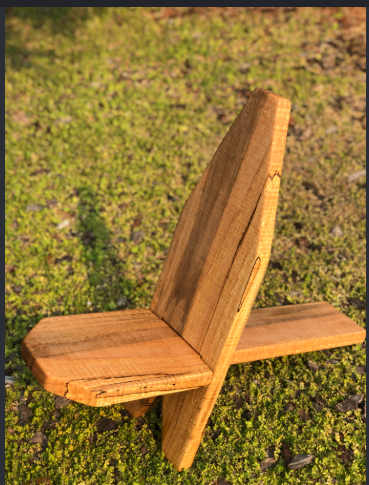
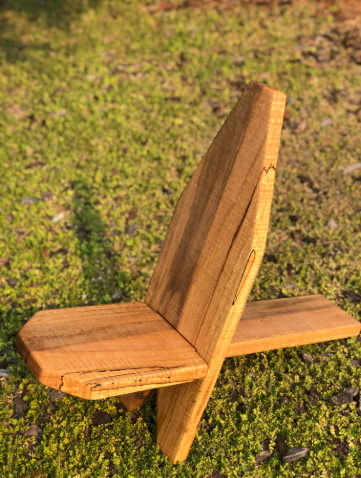
Warmer design: green hero with featured photo, cream gallery, drawn pieces until photos arrive

diff --git a/index.html b/index.html
@@ -5,141 +5,166 @@
 <meta name="viewport" content="width=device-width, initial-scale=1">
 <title>LAA · Handmade Woodwork</title>
 <meta name="description" content="LAA: a gallery of handmade wood pieces.">
-<meta name="theme-color" content="#F4F2ED">
+<meta name="theme-color" content="#1F2A23">
 <link rel="icon" href="logo.svg" type="image/svg+xml">
 <link rel="preconnect" href="https://api.fontshare.com">
-<link rel="stylesheet" href="https://api.fontshare.com/v2/css?f[]=general-sans@400,500,600&display=swap">
+<link rel="stylesheet" href="https://api.fontshare.com/v2/css?f[]=clash-display@500,600&f[]=satoshi@400,500,700&display=swap">
 <style>
-  /* minimal catalogue: paper ground, ink type, one green accent; dark mode follows the phone */
-  :root { --paper: #F4F2ED; --tile: #E9E6DF; --ink: #161A17; --muted: #7A7F79; --line: #D9D5CC; --accent: #2E3B32;
-    --font: "General Sans", "Segoe UI", system-ui, sans-serif; color-scheme: light }
-  @media (prefers-color-scheme: dark) { :root { --paper: #121513; --tile: #1B201C; --ink: #ECE8E0; --muted: #8C938B; --line: #2A302B; --accent: #A9C3A6; color-scheme: dark } }
+  /* one warm look on purpose: forest-green bands, cream paper, oiled-oak accent */
+  :root { --forest: #1F2A23; --green: #2E3B32; --sage: #A9C3A6; --cream: #F2EEE6; --paper: #F6F2EA; --tile: #EDE6D8;
+    --ink: #1D2620; --muted: #6B736A; --oak: #B97A3E; --line: #E0D8C8;
+    --display: "Clash Display", "Segoe UI", system-ui, sans-serif; --body: "Satoshi", "Segoe UI", system-ui, sans-serif; color-scheme: light }
   * { box-sizing: border-box }
-  body { margin: 0; background: var(--paper); color: var(--ink); font: 15px/1.5 var(--font); -webkit-font-smoothing: antialiased }
-  .wrap { max-width: 1240px; margin: 0 auto; padding-left: max(20px, env(safe-area-inset-left)); padding-right: max(20px, env(safe-area-inset-right)) }
-  .num { font-variant-numeric: tabular-nums; color: var(--muted) }
+  body { margin: 0; background: var(--paper); color: var(--ink); font: 16px/1.6 var(--body); -webkit-font-smoothing: antialiased }
+  .wrap { max-width: 1180px; margin: 0 auto; padding-left: max(20px, env(safe-area-inset-left)); padding-right: max(20px, env(safe-area-inset-right)) }
 
-  /* top bar */
-  nav { position: sticky; top: 0; z-index: 5; background: color-mix(in srgb, var(--paper) 86%, transparent); backdrop-filter: blur(10px) }
-  nav .wrap { display: flex; justify-content: space-between; align-items: center; height: 60px; border-bottom: 1px solid var(--line) }
-  .brand { display: flex; align-items: center; gap: 10px; font-weight: 600; letter-spacing: .08em; text-decoration: none; color: inherit }
-  .brand img { width: 30px; height: auto; aspect-ratio: 100 / 75.83 }
-  nav .count { font-size: 13px }
+  /* hero: green band with a soft glow; the featured photo hangs over its lower edge */
+  .hero { background: radial-gradient(60% 90% at 85% 0%, rgb(169 195 166 / .22), transparent 70%), linear-gradient(160deg, #26342B, var(--forest) 70%); color: var(--cream) }
+  .hero .wrap { display: grid; grid-template-columns: minmax(0, 1fr) minmax(0, 1fr); gap: clamp(28px, 5vw, 64px); align-items: end; padding-top: clamp(40px, 7vw, 84px) }
+  .brand { padding-bottom: clamp(40px, 7vw, 96px) }
+  .brand img { width: clamp(84px, 11vw, 132px); height: auto; aspect-ratio: 100 / 75.83; filter: drop-shadow(0 12px 24px rgb(0 0 0 / .35)) }
+  .brand h1 { font: 600 clamp(60px, 10vw, 120px)/1 var(--display); letter-spacing: .03em; margin: 18px 0 0 }
+  .brand .rule { width: 64px; height: 3px; border-radius: 3px; background: var(--oak); margin-top: 22px }
+  .featured { margin-bottom: clamp(-120px, -9vw, -60px); position: relative; z-index: 2 }
+  @media (max-width: 760px) {
+    .hero .wrap { grid-template-columns: 1fr; gap: 6px }
+    .brand { padding-bottom: 8px; display: flex; align-items: center; gap: 16px; flex-wrap: wrap }
+    .brand h1 { margin: 0 } .brand .rule { display: none }
+    .featured { margin-bottom: -56px }
+  }
 
-  /* intro: the name, large and quiet */
-  .intro { padding-block: clamp(48px, 10vw, 120px) clamp(28px, 5vw, 56px) }
-  .intro h1 { margin: 0; font-weight: 500; font-size: clamp(56px, 13vw, 168px); line-height: .9; letter-spacing: .01em }
-  .intro .meta { display: flex; justify-content: space-between; gap: 16px; margin-top: 22px; padding-top: 14px; border-top: 1px solid var(--line); font-size: 13px; color: var(--muted) }
+  /* cards: every one sits in a fixed-shape frame, tilts gently toward the pointer */
+  .card { all: unset; box-sizing: border-box; display: block; width: 100%; aspect-ratio: 4 / 5; border-radius: 20px; overflow: hidden; position: relative; cursor: zoom-in; background: var(--tile);
+    box-shadow: 0 1px 0 rgb(255 255 255 / .6) inset, 0 24px 48px -26px rgb(31 42 35 / .55);
+    transform: perspective(900px) rotateX(var(--rx, 0deg)) rotateY(var(--ry, 0deg)); transition: transform .45s cubic-bezier(.2,.8,.2,1), box-shadow .45s }
+  .card:hover { box-shadow: 0 1px 0 rgb(255 255 255 / .6) inset, 0 34px 60px -26px rgb(31 42 35 / .65) }
+  .card:focus-visible { outline: 2px solid var(--oak); outline-offset: 4px }
+  .card img { width: 100%; height: 100%; object-fit: cover; display: block; transition: transform .8s cubic-bezier(.2,.8,.2,1) }
+  .card:hover img { transform: scale(1.04) }
+  .chip { position: absolute; left: 12px; top: 12px; padding: 5px 10px; border-radius: 99px; font-size: 12px; font-weight: 500; background: rgb(246 242 234 / .9); color: var(--muted); backdrop-filter: blur(4px) }
+  .featured .card { box-shadow: 0 40px 80px -30px rgb(0 0 0 / .6) }
 
-  /* the work: a numbered index of pieces */
-  .grid { display: grid; grid-template-columns: repeat(3, minmax(0, 1fr)); gap: clamp(18px, 3vw, 36px) clamp(14px, 2vw, 24px); padding-bottom: 96px }
+  /* the work */
+  .work { padding-top: clamp(100px, 12vw, 160px); padding-bottom: 80px }
+  @media (max-width: 760px) { .work { padding-top: 92px } }
+  .work-head { display: flex; justify-content: space-between; align-items: baseline; gap: 16px; margin-bottom: 26px }
+  .work-head h2 { font: 600 clamp(30px, 4vw, 42px)/1 var(--display); letter-spacing: .01em; margin: 0 }
+  .work-head span { color: var(--muted); font-size: 14px }
+  .grid { display: grid; grid-template-columns: repeat(3, minmax(0, 1fr)); gap: 34px 26px }
   @media (max-width: 900px) { .grid { grid-template-columns: repeat(2, minmax(0, 1fr)) } }
-  @media (max-width: 540px) { .grid { grid-template-columns: 1fr } }
-  .piece { margin: 0; display: grid; gap: 10px }
-  .piece.lead { grid-column: span 2; grid-row: span 2 }
-  @media (max-width: 540px) { .piece.lead { grid-column: auto; grid-row: auto } }
-  .shot { all: unset; box-sizing: border-box; display: block; width: 100%; aspect-ratio: 4 / 5; background: var(--tile); overflow: hidden; border-radius: 4px; cursor: zoom-in; position: relative }
-  .piece.lead .shot { aspect-ratio: auto; height: 100% ; min-height: 320px }
-  @media (max-width: 540px) { .piece.lead .shot { aspect-ratio: 4 / 5; height: auto } }
-  .shot:focus-visible { outline: 2px solid var(--accent); outline-offset: 3px }
-  .shot img { width: 100%; height: 100%; object-fit: cover; display: block; transition: transform .9s cubic-bezier(.2,.7,.2,1), opacity .6s }
-  .shot:hover img { transform: scale(1.03) }
-  .shot.soon { cursor: default; display: grid; place-items: center }
-  .shot.soon img { width: 44px; height: auto; object-fit: contain; opacity: .18; filter: grayscale(1) }
-  @media (prefers-color-scheme: dark) { .shot.soon img { filter: grayscale(1) invert(1) } }
-  .cap { display: flex; justify-content: space-between; align-items: baseline; gap: 12px; font-size: 14px }
-  .cap span:first-child { display: flex; gap: 12px }
-  .cap .tagline { color: var(--muted); font-size: 13px }
+  @media (max-width: 520px) { .grid { grid-template-columns: 1fr } }
+  .piece { margin: 0 }
+  .grid .piece:nth-child(3n + 2) { margin-top: 40px } /* a gentle stagger, like pieces set out on a bench */
+  @media (max-width: 900px) { .grid .piece:nth-child(3n + 2) { margin-top: 0 } .grid .piece:nth-child(2n) { margin-top: 36px } }
+  @media (max-width: 520px) { .grid .piece:nth-child(2n) { margin-top: 0 } }
+  .cap { display: flex; gap: 12px; align-items: baseline; margin-top: 14px }
+  .cap .n { font: 500 13px var(--body); color: var(--oak); font-variant-numeric: tabular-nums }
+  .cap .name { font: 600 19px/1.2 var(--display); letter-spacing: .01em }
 
-  footer .wrap { display: flex; justify-content: space-between; gap: 16px; flex-wrap: wrap; padding-block: 22px 36px; border-top: 1px solid var(--line); font-size: 13px; color: var(--muted) }
+  footer { background: var(--forest); color: var(--cream) }
+  footer .wrap { display: flex; justify-content: space-between; align-items: center; gap: 12px; flex-wrap: wrap; padding-block: 26px 34px; font-size: 14px }
+  footer img { width: 34px; height: auto; aspect-ratio: 100 / 75.83; vertical-align: middle; margin-right: 12px }
+  footer .dim { color: var(--sage) }
 
   /* viewer */
-  dialog { border: 0; padding: 0; background: transparent; max-width: min(94vw, 1100px); overflow: visible; color: #ECE8E0 }
-  dialog::backdrop { background: rgb(12 14 13 / .9) }
-  dialog img { display: block; max-width: 100%; max-height: 84svh; border-radius: 4px }
-  dialog p { margin: 12px 2px 0; display: flex; justify-content: space-between; font-size: 14px }
-  .dlg-btn { position: absolute; top: 10px; width: 40px; height: 40px; border-radius: 50%; border: 0; background: rgb(18 21 19 / .7); color: #ECE8E0; font: 18px var(--font); cursor: pointer }
-  .dlg-btn:focus-visible { outline: 2px solid #A9C3A6 }
+  dialog { border: 0; padding: 0; background: transparent; max-width: min(94vw, 1000px); overflow: visible; color: var(--cream) }
+  dialog::backdrop { background: rgb(20 28 23 / .86); backdrop-filter: blur(12px) }
+  dialog img { display: block; max-width: 100%; max-height: 82svh; border-radius: 16px }
+  dialog p { margin: 12px 4px 0; display: flex; justify-content: space-between; gap: 12px; font: 600 19px var(--display) }
+  dialog p small { font: 500 13px var(--body); color: var(--sage) }
+  .dlg-btn { position: absolute; top: 10px; width: 42px; height: 42px; border-radius: 50%; border: 0; background: rgb(31 42 35 / .8); color: var(--cream); font-size: 20px; cursor: pointer }
+  .dlg-btn:focus-visible { outline: 2px solid var(--oak) }
   #close { right: 10px } #prev { left: 10px; top: 50% } #next { right: 10px; top: 50% }
   [hidden] { display: none !important }
-  @media (prefers-reduced-motion: reduce) { * { transition: none !important } }
+  @media (prefers-reduced-motion: reduce) { * { transition: none !important } .card { transform: none !important } }
 </style>
 </head>
 <body>
-<nav><div class="wrap">
-  <a class="brand" href="#"><img src="logo.svg" alt="" width="30" height="23">LAA</a>
-  <span class="count num" id="count"></span>
-</div></nav>
+<section class="hero">
+  <div class="wrap">
+    <div class="brand"><img src="logo-cream.svg" alt="LAA logo" width="132" height="100"><h1>LAA</h1><div class="rule"></div></div>
+    <div class="featured" id="featured"></div>
+  </div>
+</section>
 
-<header class="intro wrap">
-  <h1>LAA</h1>
-  <div class="meta"><span>Handmade woodwork</span><span class="num" id="year"></span></div>
-</header>
+<main class="work wrap">
+  <div class="work-head"><h2>The work</h2><span id="count"></span></div>
+  <div class="grid" id="grid"></div>
+</main>
 
-<main class="wrap"><div class="grid" id="grid"></div></main>
-
-<footer><div class="wrap"><span>© LAA</span><span>frogemon.github.io</span></div></footer>
+<footer><div class="wrap"><span><img src="logo-cream.svg" alt="" width="34" height="26">© LAA</span><span class="dim">Handmade woodwork</span></div></footer>
 
 <dialog id="viewer" aria-label="Photo">
   <button class="dlg-btn" id="close" aria-label="Close">×</button>
-  <button class="dlg-btn" id="prev" aria-label="Previous photo">‹</button>
-  <button class="dlg-btn" id="next" aria-label="Next photo">›</button>
+  <button class="dlg-btn" id="prev" aria-label="Previous">‹</button>
+  <button class="dlg-btn" id="next" aria-label="Next">›</button>
   <img id="big" alt="">
-  <p><span id="caption"></span><span class="num" id="pos"></span></p>
+  <p><span id="caption"></span><small id="pos"></small></p>
 </dialog>
 
 <script>
-// The gallery. The first entry is the big one. To add a picture: put the file in the photos folder
-// and fill in its photo: "photos/your-file.jpg". Entries with photo: "" show as "Photo soon".
-const PHOTOS = [
+// The gallery. The first entry is the big one at the top.
+// To add a real photo: put it in the photos folder and set photo: "photos/your-file.jpg".
+// Until then a piece shows its drawing (drawn: ...) with a "Drawing · photo soon" label.
+const PIECES = [
   { name: "Stargazing Chair", photo: "photos/stargazing-chair.png" },
-  { name: "Wine & Glass Caddy", photo: "" },
-  { name: "Wine Bottle Wind Chimes", photo: "" },
-  { name: "Magic Wine Holder", photo: "" },
-  { name: "Folding Stool", photo: "" },
-  { name: "Beer Flight", photo: "" },
+  { name: "Wine & Glass Caddy", photo: "", drawn: "photos/drawn/caddy.jpg" },
+  { name: "Wine Bottle Wind Chimes", photo: "", drawn: "photos/drawn/chimes.jpg" },
+  { name: "Magic Wine Holder", photo: "", drawn: "photos/drawn/wine.jpg" },
+  { name: "Folding Stool", photo: "", drawn: "photos/drawn/stool.jpg" },
+  { name: "Beer Flight", photo: "", drawn: "photos/drawn/flight.jpg" },
 ];
-const SHOTS = PHOTOS.filter((p) => p.photo); // only real photos open in the viewer
 
-const viewer = document.getElementById("viewer"), grid = document.getElementById("grid");
+const viewer = document.getElementById("viewer"), still = matchMedia("(prefers-reduced-motion: reduce)").matches;
 const pad = (n) => String(n).padStart(2, "0");
-document.getElementById("count").textContent = `${pad(PHOTOS.length)} pieces`;
-document.getElementById("year").textContent = new Date().getFullYear();
+const src = (p) => p.photo || p.drawn;
+const SHOWN = PIECES.filter(src);
+document.getElementById("count").textContent = `${PIECES.length} pieces`;
 let at = 0;
 
 function show(i) {
-  at = (i + SHOTS.length) % SHOTS.length;
-  const p = SHOTS[at], big = document.getElementById("big");
-  big.src = p.photo; big.alt = p.name;
+  at = (i + SHOWN.length) % SHOWN.length;
+  const p = SHOWN[at], big = document.getElementById("big");
+  big.src = src(p); big.alt = p.name;
   document.getElementById("caption").textContent = p.name;
-  document.getElementById("pos").textContent = SHOTS.length > 1 ? `${pad(at + 1)} / ${pad(SHOTS.length)}` : "";
-  for (const id of ["prev", "next"]) document.getElementById(id).hidden = SHOTS.length < 2;
+  document.getElementById("pos").textContent = (p.photo ? "" : "Drawing · photo soon   ") + `${pad(at + 1)} / ${pad(SHOWN.length)}`;
+  for (const id of ["prev", "next"]) document.getElementById(id).hidden = SHOWN.length < 2;
   if (!viewer.open) viewer.showModal();
 }
 
-PHOTOS.forEach((p, i) => {
-  const fig = document.createElement("figure");
-  fig.className = "piece" + (i === 0 ? " lead" : "");
-  const shot = document.createElement(p.photo ? "button" : "div");
-  shot.className = "shot" + (p.photo ? "" : " soon");
+function card(p) {
+  const btn = document.createElement("button");
+  btn.type = "button"; btn.className = "card";
+  btn.setAttribute("aria-label", "Open " + p.name);
   const img = document.createElement("img");
-  if (p.photo) {
-    shot.type = "button";
-    shot.setAttribute("aria-label", "Open photo: " + p.name);
-    img.src = p.photo; img.alt = p.name; img.loading = i === 0 ? "eager" : "lazy";
-    shot.addEventListener("click", () => show(SHOTS.indexOf(p)));
-  } else {
-    img.src = "logo.svg"; img.alt = "";
+  img.src = src(p); img.alt = p.photo ? p.name : "Drawing of " + p.name; img.loading = "lazy";
+  btn.appendChild(img);
+  if (!p.photo) { const c = document.createElement("span"); c.className = "chip"; c.textContent = "Drawing · photo soon"; btn.appendChild(c); }
+  btn.addEventListener("click", () => show(SHOWN.indexOf(p)));
+  if (!still) {
+    btn.addEventListener("pointermove", (e) => {
+      const r = btn.getBoundingClientRect();
+      btn.style.setProperty("--ry", (((e.clientX - r.left) / r.width - 0.5) * 7).toFixed(2) + "deg");
+      btn.style.setProperty("--rx", (-((e.clientY - r.top) / r.height - 0.5) * 7).toFixed(2) + "deg");
+    });
+    btn.addEventListener("pointerleave", () => { btn.style.removeProperty("--rx"); btn.style.removeProperty("--ry"); });
   }
-  shot.appendChild(img);
+  return btn;
+}
+
+PIECES.forEach((p, i) => {
+  if (!src(p)) return;
+  if (i === 0) { const f = card(p); f.querySelector("img").loading = "eager"; document.getElementById("featured").appendChild(f); return; }
+  const fig = document.createElement("figure");
+  fig.className = "piece";
+  fig.appendChild(card(p));
   const cap = document.createElement("figcaption");
   cap.className = "cap";
-  cap.innerHTML = `<span><span class="num"></span><span class="name"></span></span><span class="tagline"></span>`;
-  cap.querySelector(".num").textContent = pad(i + 1);
+  cap.innerHTML = `<span class="n"></span><span class="name"></span>`;
+  cap.querySelector(".n").textContent = pad(i + 1);
   cap.querySelector(".name").textContent = p.name;
-  cap.querySelector(".tagline").textContent = p.photo ? "" : "Photo soon";
-  fig.append(shot, cap);
-  grid.appendChild(fig);
+  fig.appendChild(cap);
+  document.getElementById("grid").appendChild(fig);
 });
 
 document.getElementById("close").onclick = () => viewer.close();
